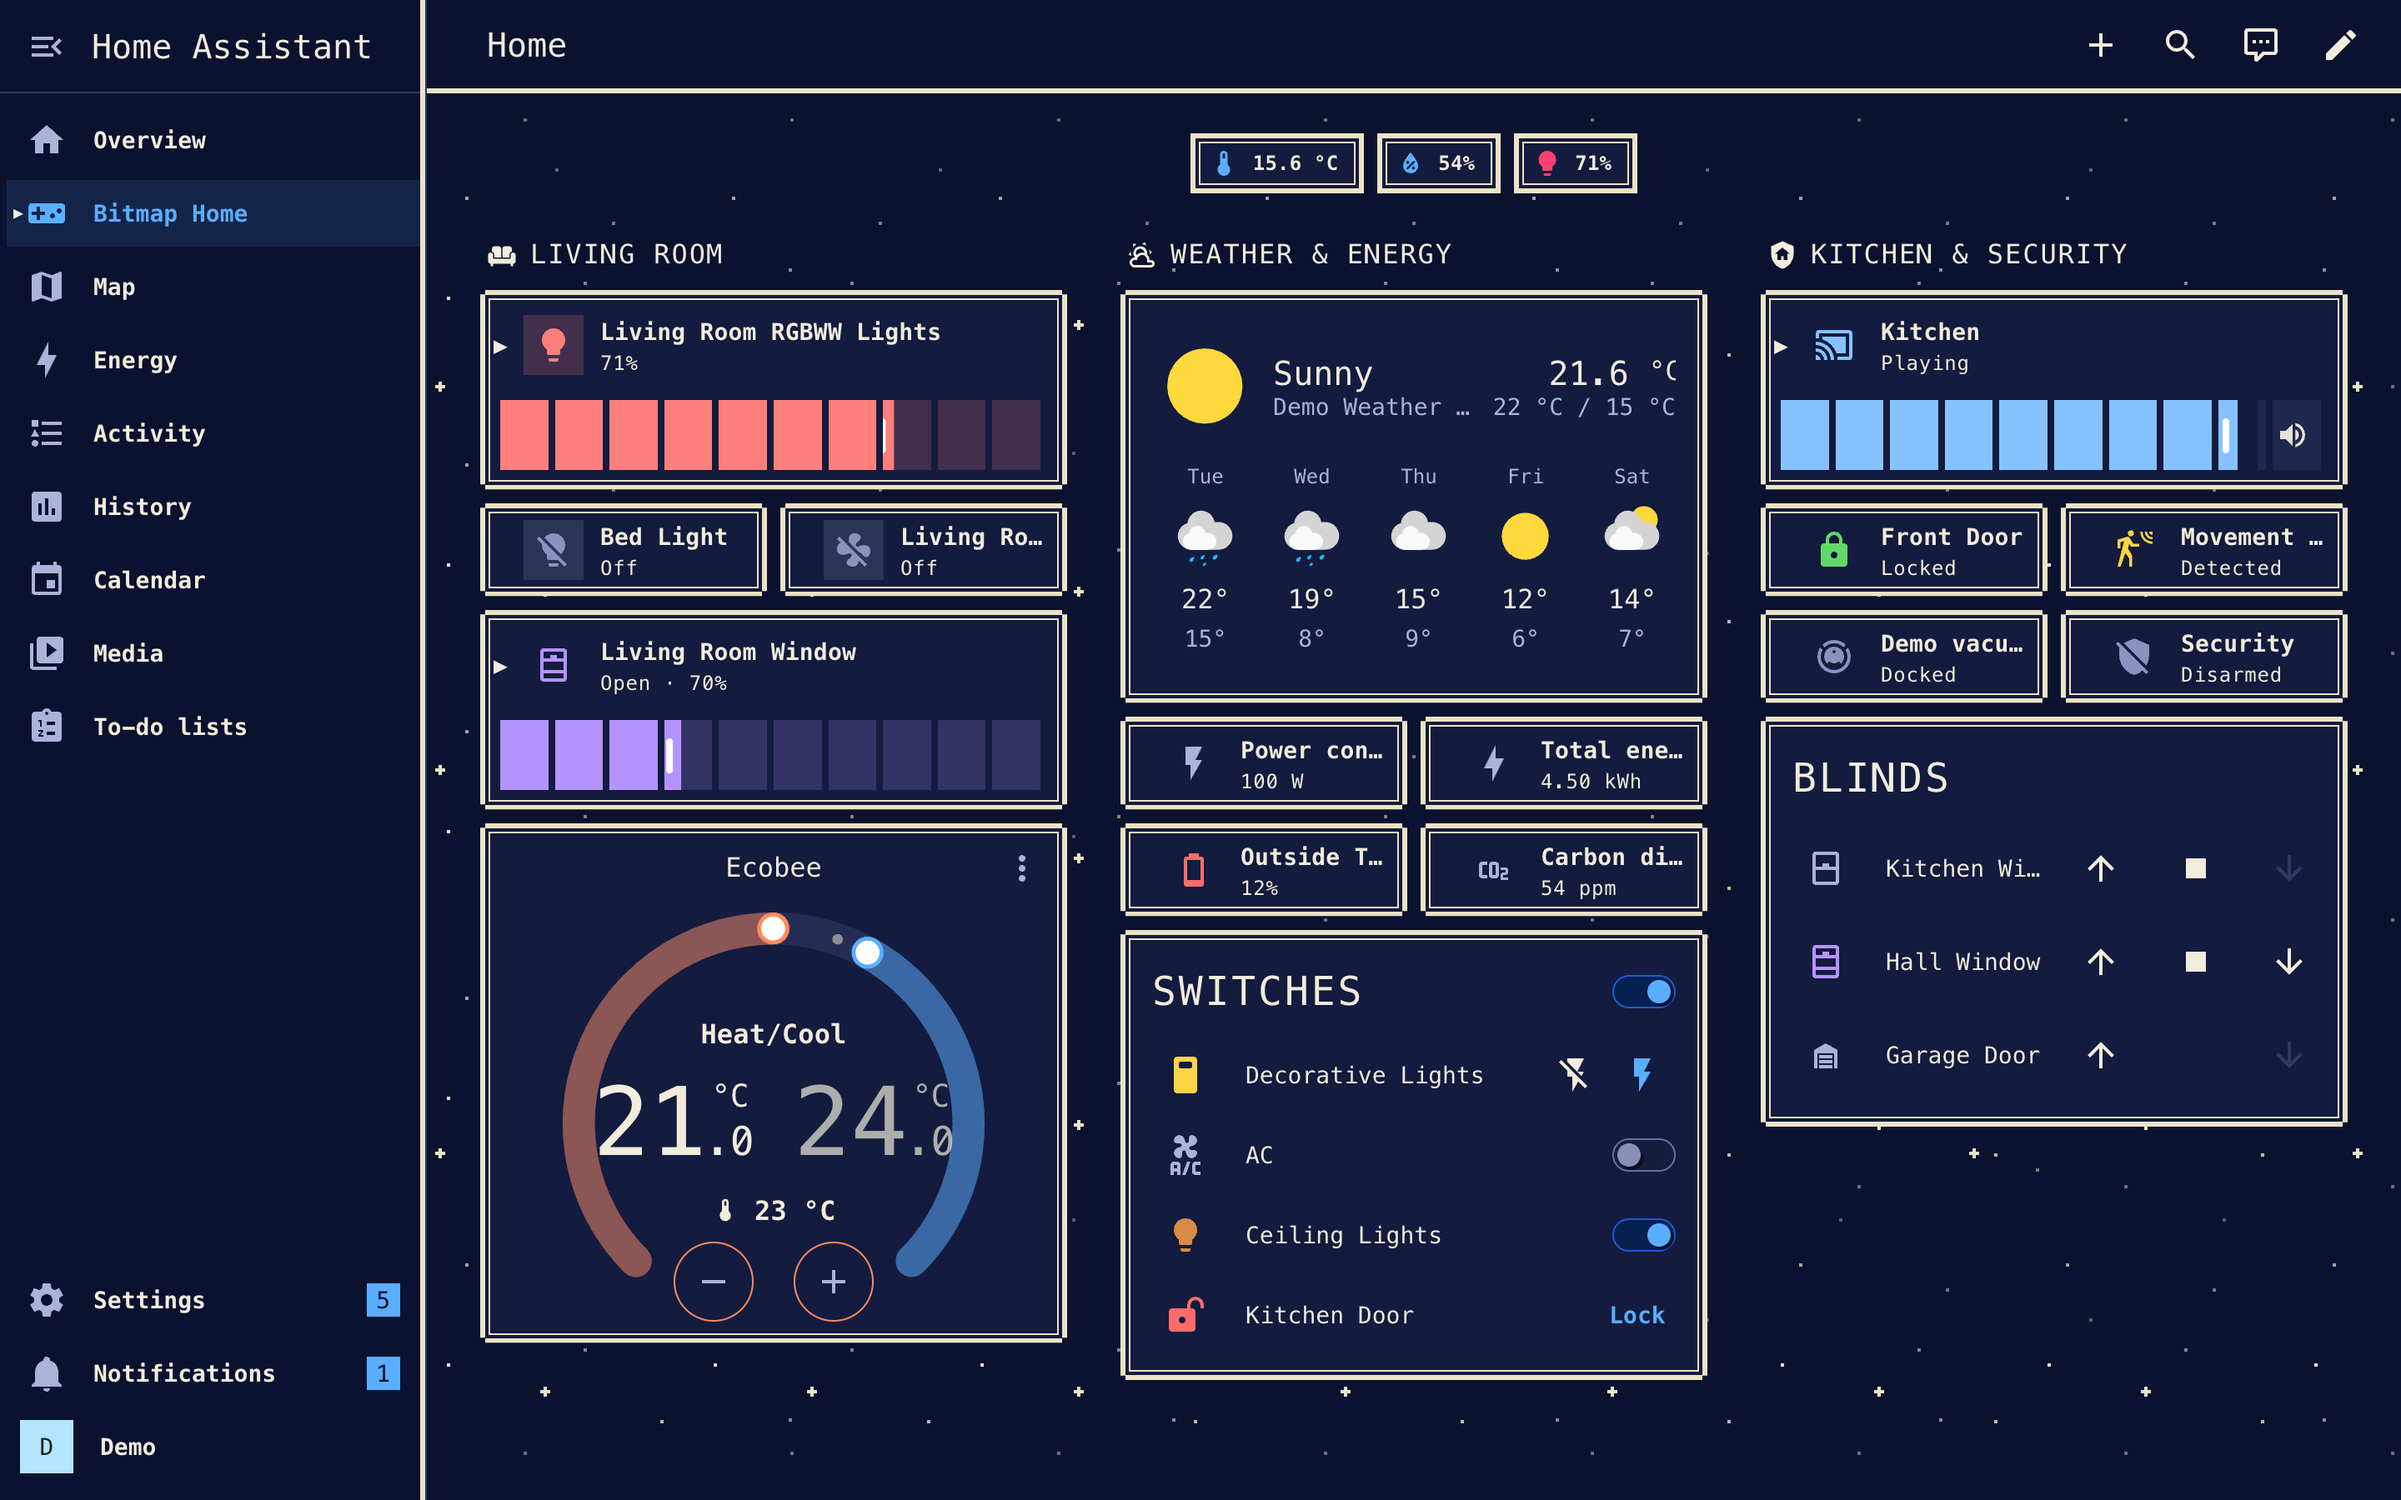
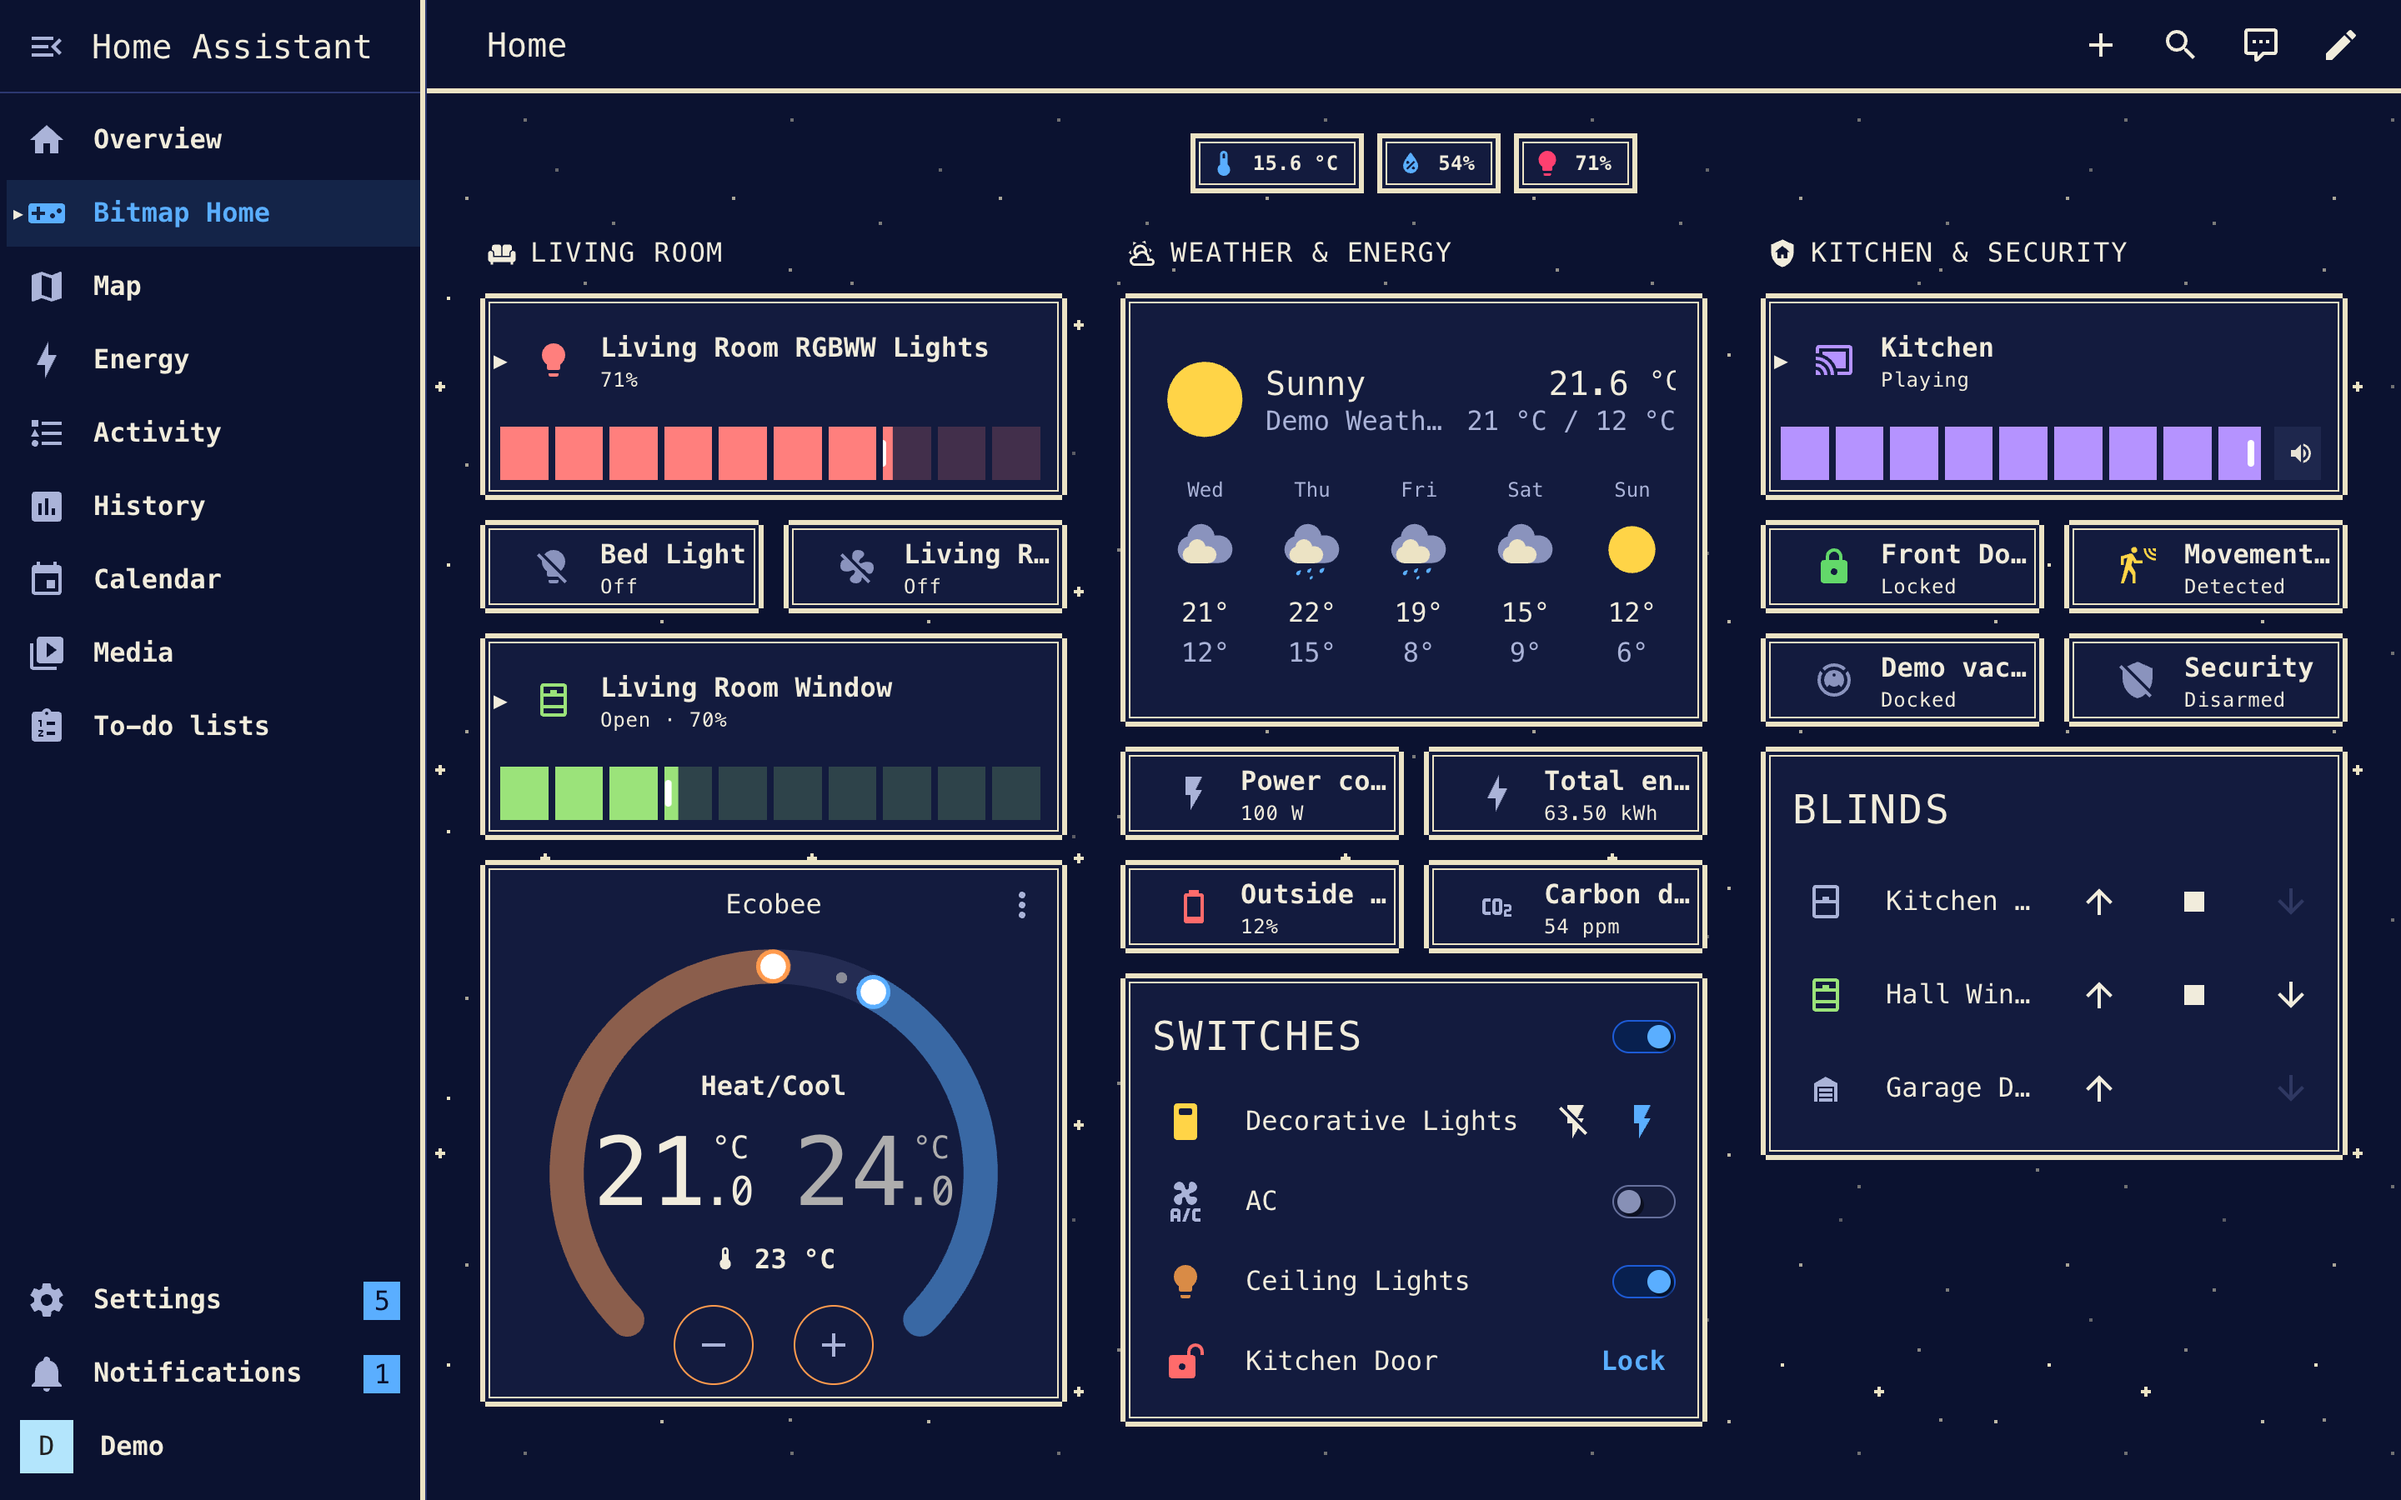
1.1.0: changelog and README images

diff --git a/CHANGELOG.md b/CHANGELOG.md
@@ -5,6 +5,8 @@ The format follows [Keep a Changelog](https://keepachangelog.com/en/1.1.0/), ver
 
 ## [Unreleased]
 
+## [1.1.0] - 2026-11-25
+
 ### Changed
 - Type sizes follow a character set: small 12 px, normal 16 px, titles 20 px, double 24 px, 32/40/48 px for big numbers; line heights 1.5 and 1.25, so text sits on a 4 px grid. 10 px text is gone.
 - 12 px gaps between cards in sections, so the window frames do not touch.
@@ -14,6 +16,9 @@ The format follows [Keep a Changelog](https://keepachangelog.com/en/1.1.0/), ver
 ### Changed (card-mod)
 - Tile icons stand free like in a menu, without the coloured plate; the plate comes back on hover.
 - Tile features are 32 px high instead of 42 px, block bars get flatter blocks; 8 px between feature buttons.
+
+### Docs
+- README images show 1.1.0.
 
 ## [1.0.0] - 2026-11-24
 
